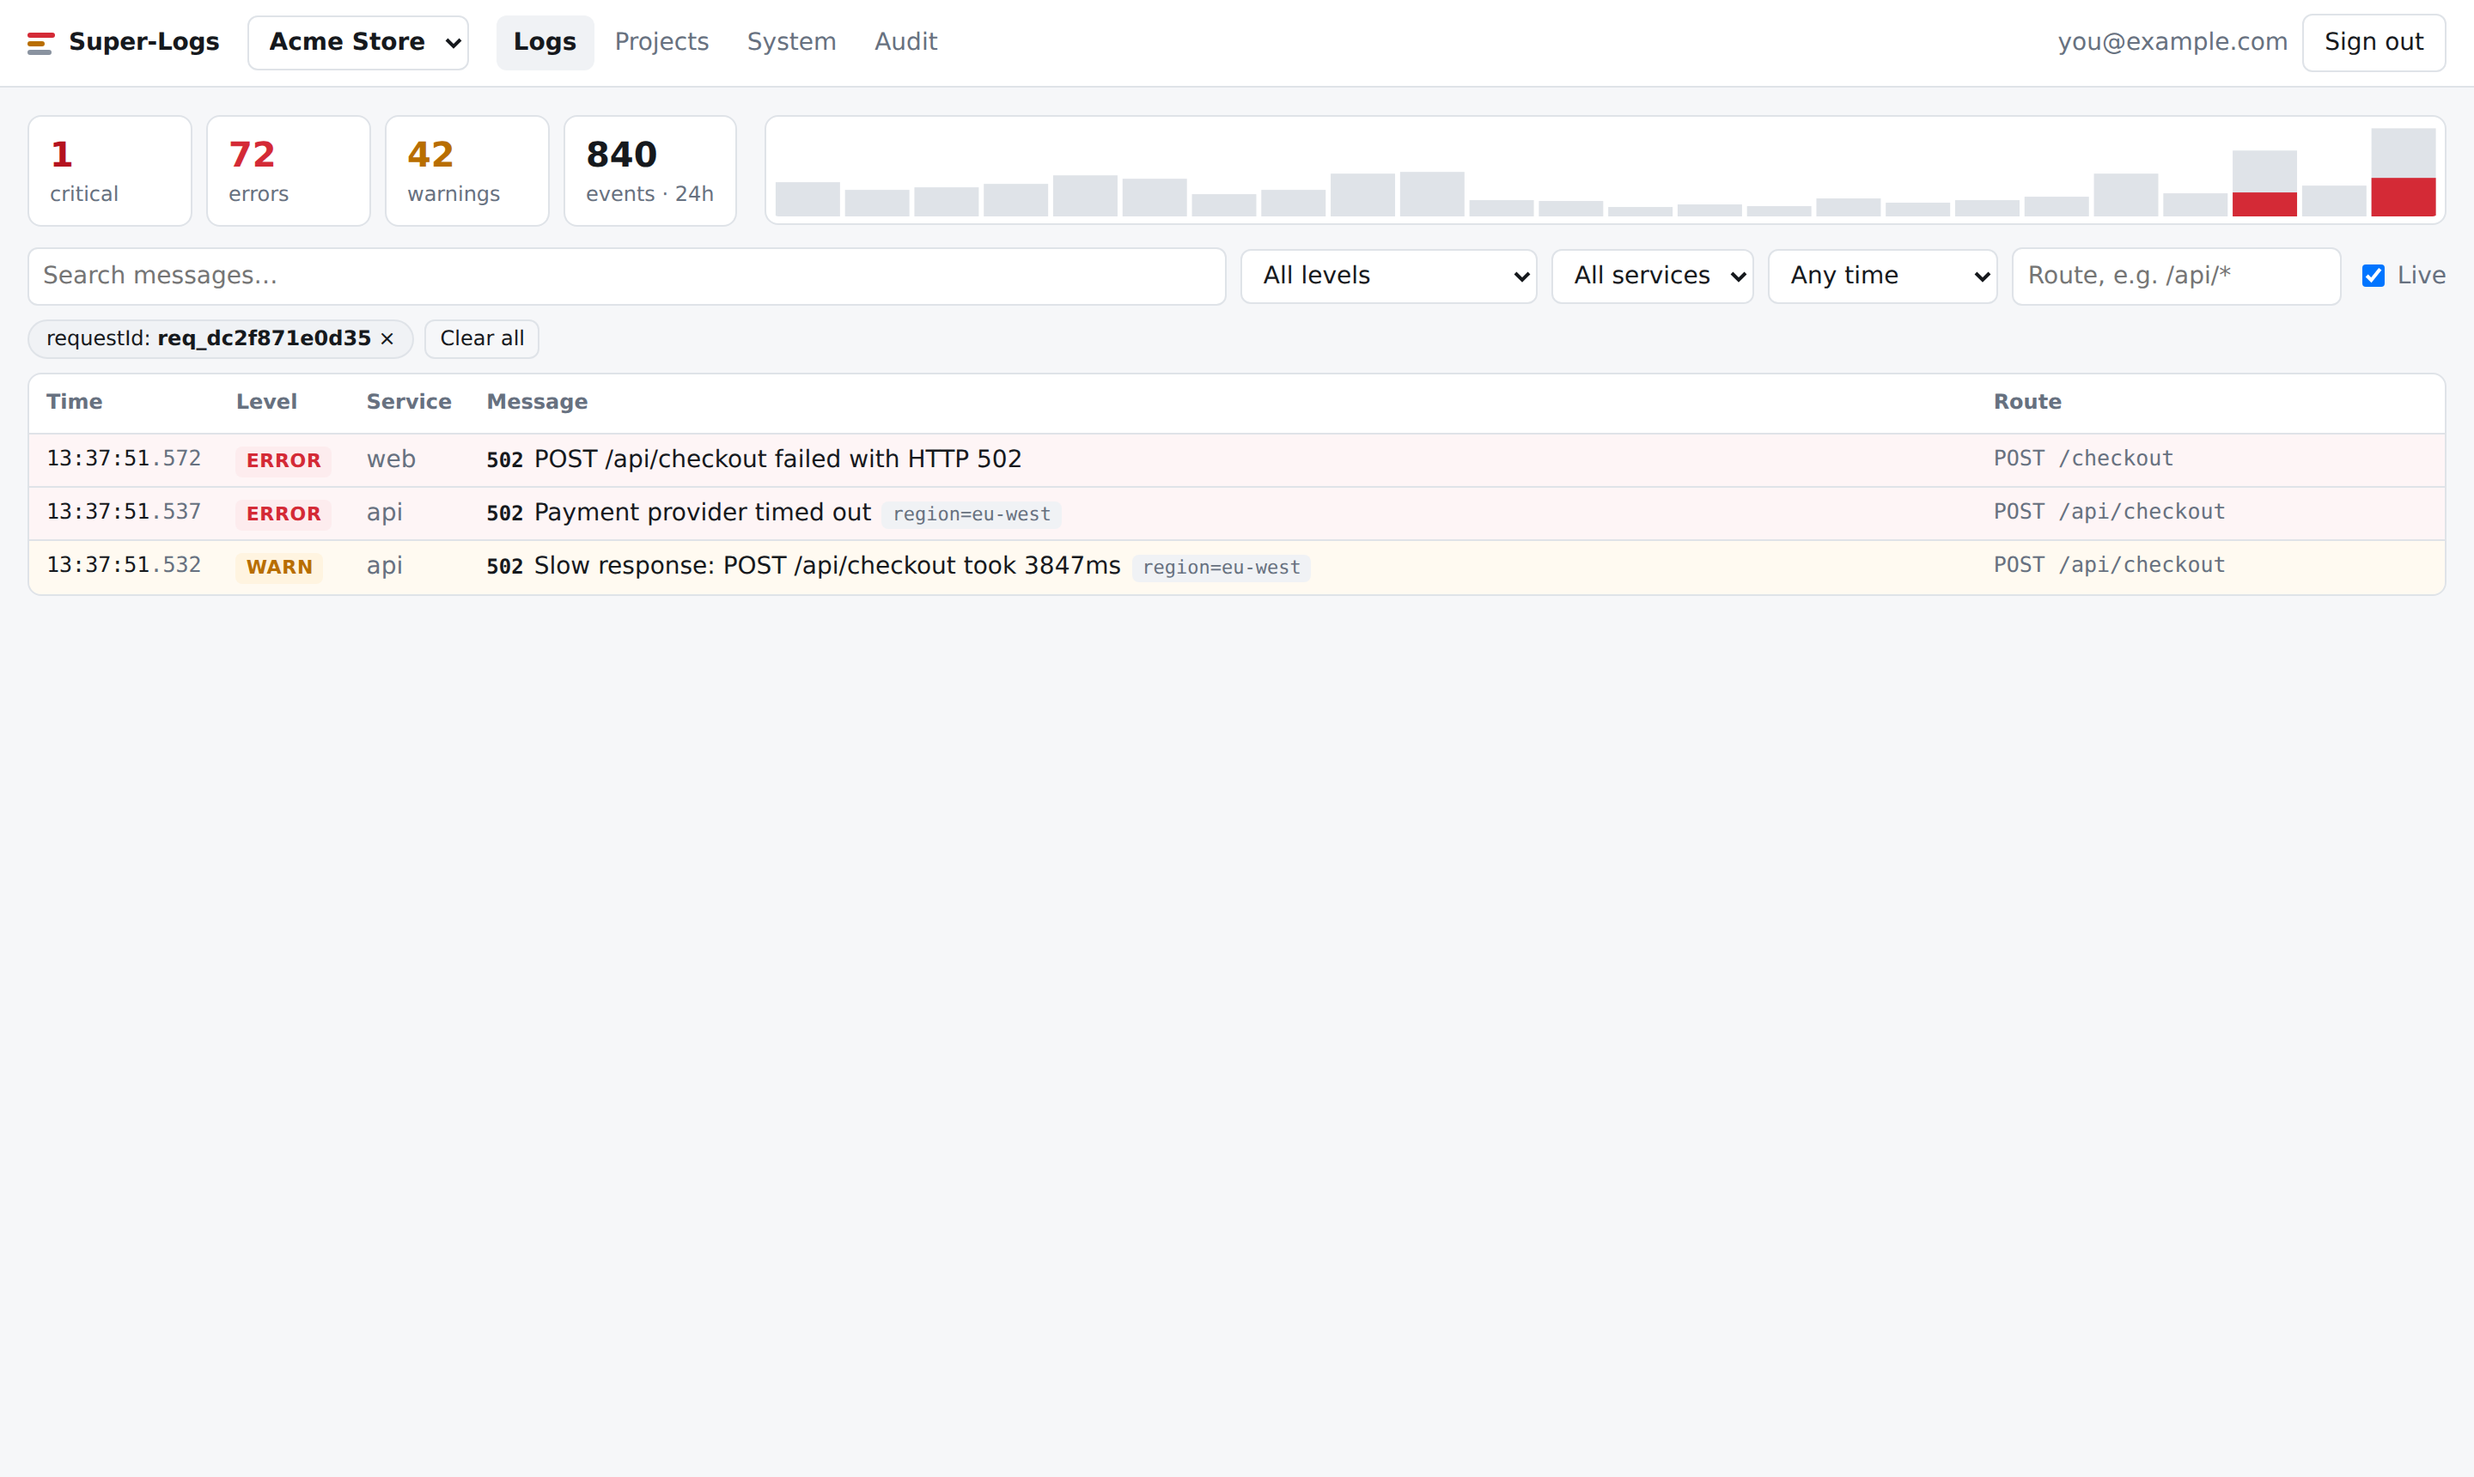
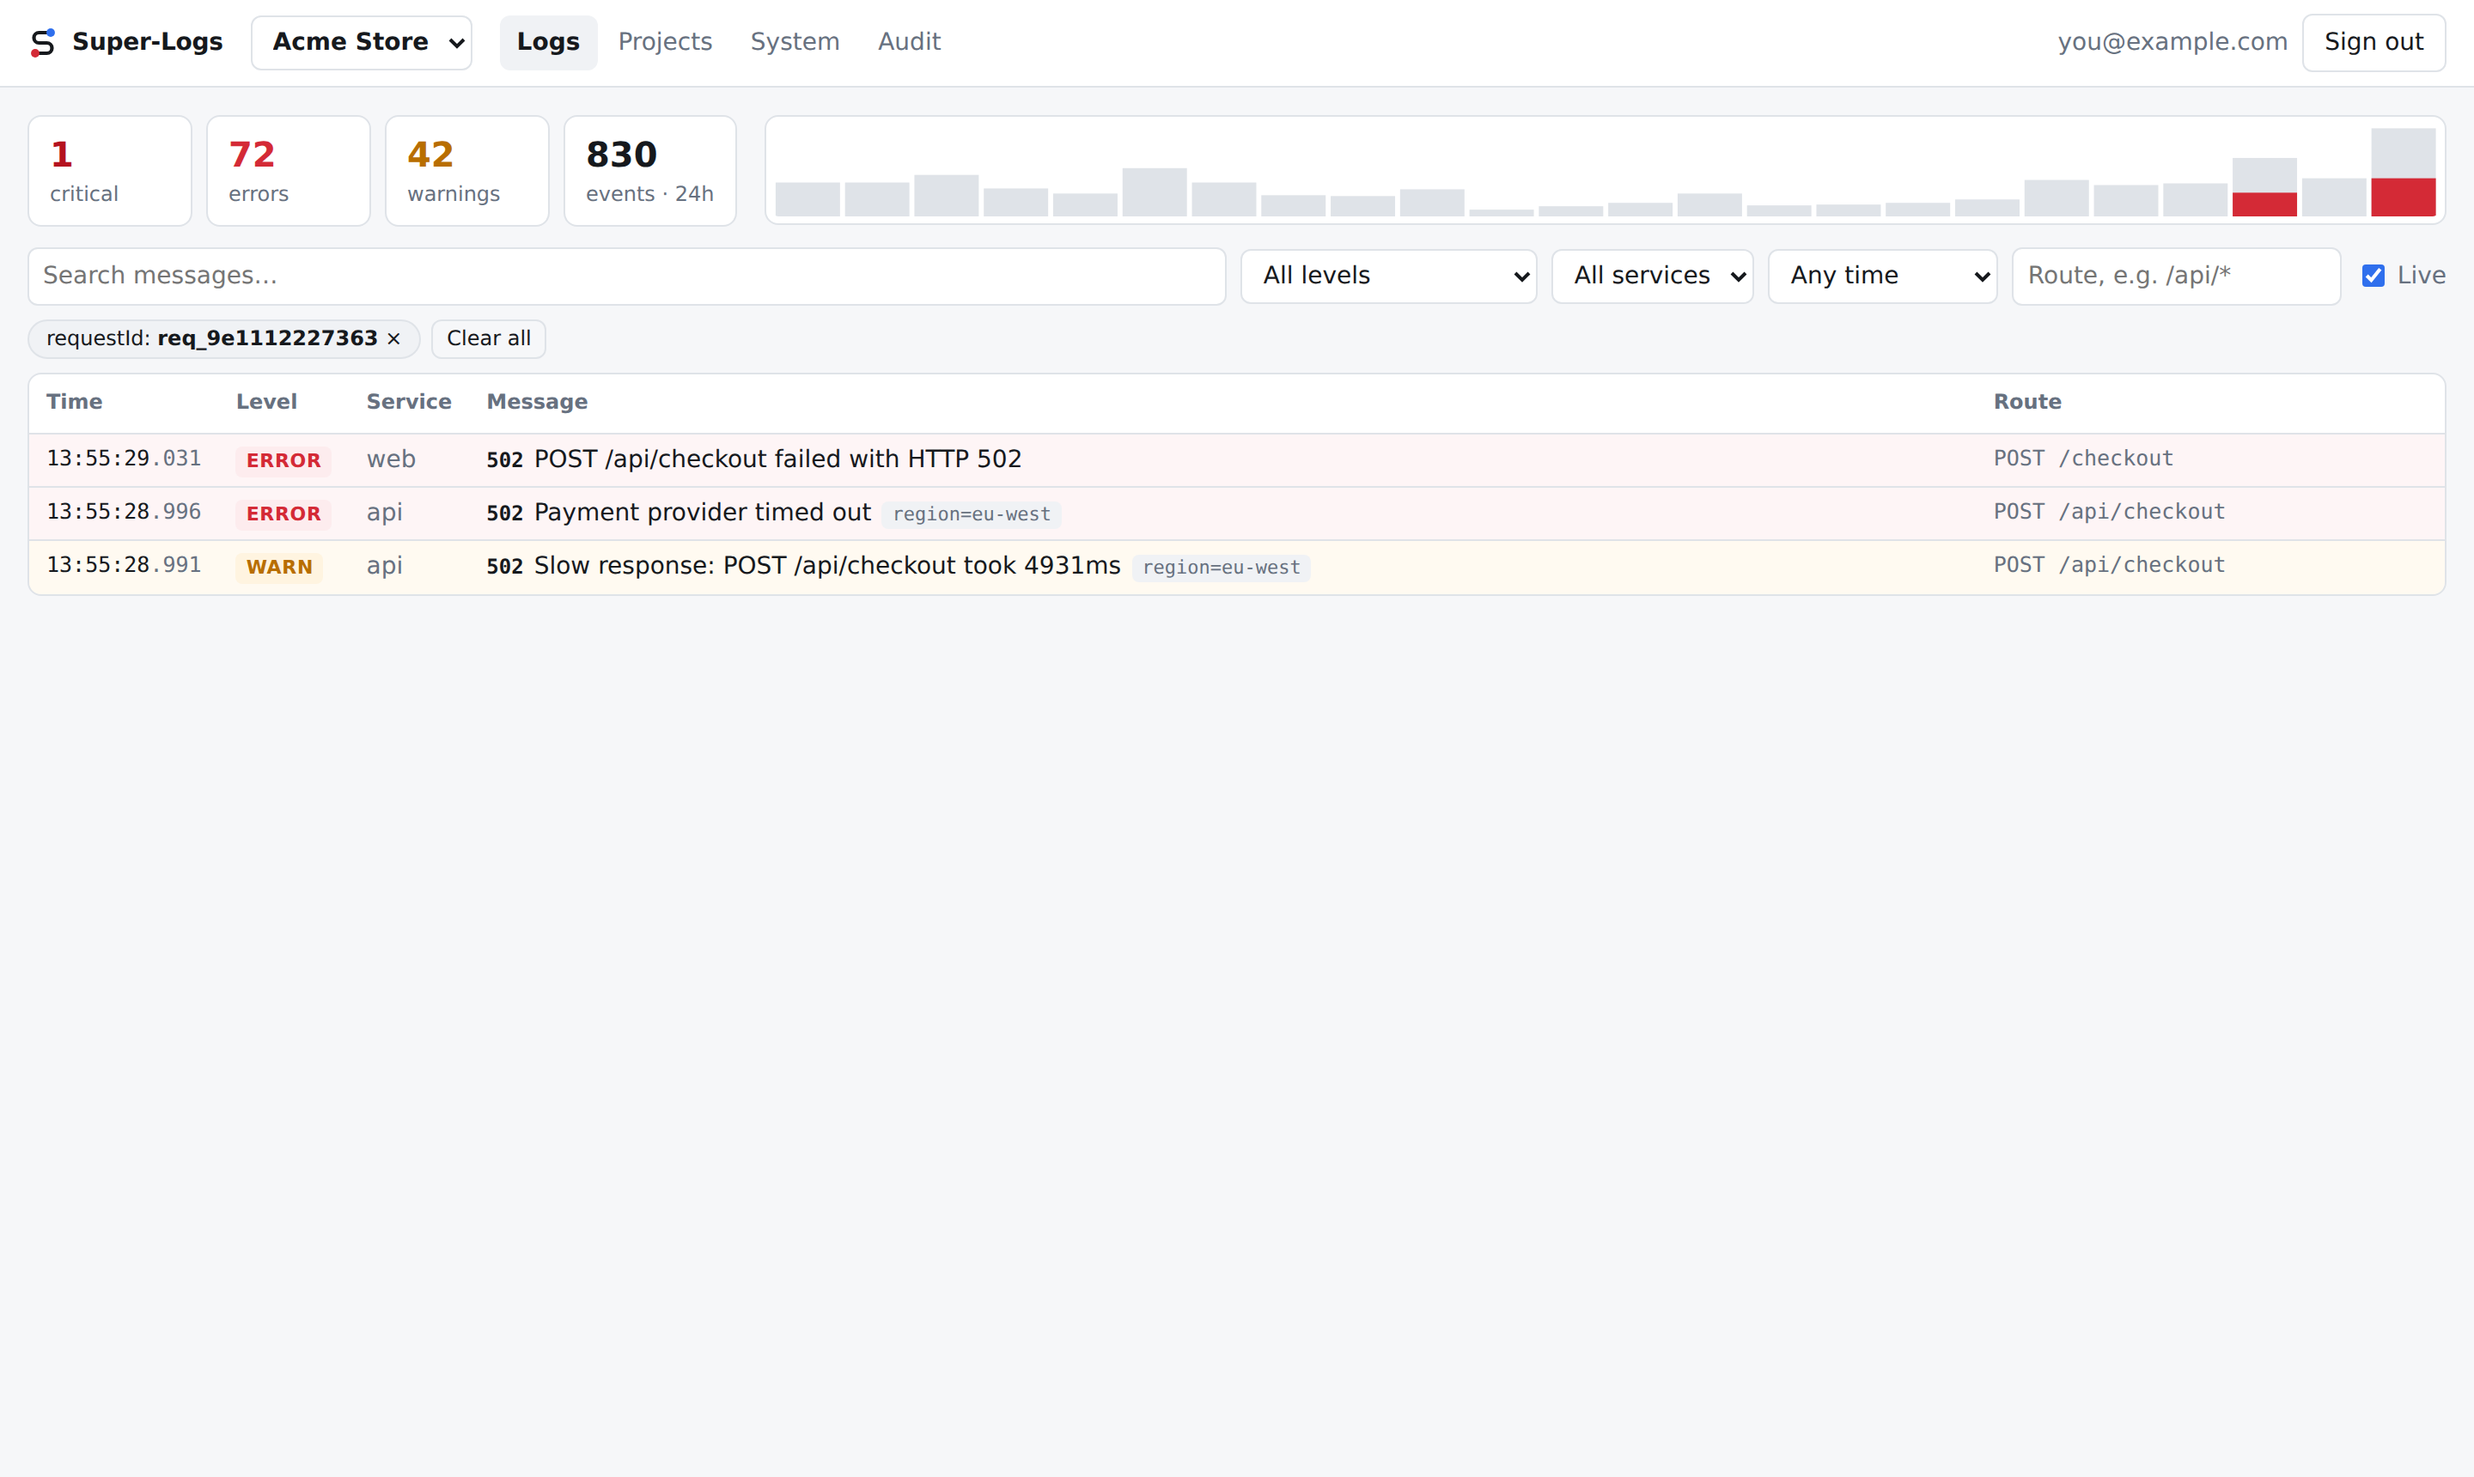
UI refactor

diff --git a/apps/dashboard/src/styles.css b/apps/dashboard/src/styles.css
@@ -147,6 +147,9 @@ select {
   padding: 6px 8px;
   min-width: 0;
 }
+input[type="checkbox"] {
+  accent-color: var(--accent);
+}
 input:focus-visible,
 select:focus-visible,
 button:focus-visible,
@@ -200,29 +203,18 @@ tr:focus-visible {
 }
 .brand.large {
   font-size: 22px;
+  gap: 10px;
   justify-content: center;
   margin-bottom: 8px;
 }
 .brand-mark {
-  display: inline-grid;
-  gap: 2px;
-  width: 16px;
+  flex-shrink: 0;
 }
-.brand-mark i {
-  display: block;
-  height: 3px;
-  border-radius: 2px;
+.brand-mark-start {
+  fill: var(--accent);
 }
-.brand-mark i:nth-child(1) {
-  background: var(--error);
-}
-.brand-mark i:nth-child(2) {
-  background: var(--warning);
-  width: 65%;
-}
-.brand-mark i:nth-child(3) {
-  background: var(--debug);
-  width: 85%;
+.brand-mark-end {
+  fill: var(--error);
 }
 
 .nav {
@@ -757,5 +749,65 @@ table.kv th {
   }
   .account-email {
     display: none;
+  }
+
+  /* Top bar: brand and sign-out on the first row, project and nav on the second. */
+  .topbar {
+    gap: 4px 12px;
+  }
+  .account {
+    order: 1;
+  }
+  .topbar::after {
+    content: "";
+    order: 1;
+    flex-basis: 100%;
+  }
+  .project-picker {
+    order: 2;
+  }
+  .project-picker select {
+    max-width: 150px;
+  }
+  .nav {
+    order: 3;
+    flex: 1 1 0;
+    min-width: 50%;
+    overflow-x: auto;
+  }
+
+  .summary {
+    gap: 8px;
+  }
+  .counters {
+    display: grid;
+    grid-template-columns: repeat(4, minmax(0, 1fr));
+    width: 100%;
+  }
+  .counter {
+    min-width: 0;
+    padding: 6px;
+  }
+  .counter strong {
+    font-size: 18px;
+  }
+  .counter span {
+    font-size: 11px;
+    overflow: hidden;
+    text-overflow: ellipsis;
+    white-space: nowrap;
+  }
+  .histogram {
+    flex-basis: 100%;
+    height: 56px;
+  }
+
+  .filters {
+    display: grid;
+    grid-template-columns: repeat(2, minmax(0, 1fr));
+  }
+  .filters input[type="search"],
+  .filters .toggle {
+    grid-column: 1 / -1;
   }
 }

diff --git a/apps/dashboard/src/components/bits.tsx b/apps/dashboard/src/components/bits.tsx
@@ -3,6 +3,24 @@ import type { Level } from "../api";
 
 export const LEVEL_ORDER: Level[] = ["debug", "info", "warning", "error", "critical"];
 
+/** The Super-Logs mark: an "S" traced from the browser (blue) to the server error (red). */
+export function BrandMark({ size = 18 }: { size?: number }) {
+  return (
+    <svg className="brand-mark" width={size} height={size} viewBox="4 4 24 24" aria-hidden="true">
+      <path
+        d="M22 8H13a4 4 0 0 0 0 8h6a4 4 0 0 1 0 8H10"
+        fill="none"
+        stroke="currentColor"
+        strokeWidth="2.8"
+        strokeLinecap="round"
+        strokeLinejoin="round"
+      />
+      <circle cx="22" cy="8" r="3.3" className="brand-mark-start" />
+      <circle cx="10" cy="24" r="3.3" className="brand-mark-end" />
+    </svg>
+  );
+}
+
 export function LevelBadge({ level }: { level: Level }) {
   return <span className={`level level-${level}`}>{level === "warning" ? "warn" : level === "critical" ? "crit" : level}</span>;
 }

diff --git a/apps/dashboard/src/pages/Login.tsx b/apps/dashboard/src/pages/Login.tsx
@@ -1,6 +1,6 @@
 import { useState } from "react";
 import { api, errorMessage, type User } from "../api";
-import { ErrorNote } from "../components/bits";
+import { BrandMark, ErrorNote } from "../components/bits";
 
 export function LoginPage({ onSignedIn }: { onSignedIn: (user: User) => void }) {
   const [error, setError] = useState<string | null>(null);
@@ -29,11 +29,7 @@ export function LoginPage({ onSignedIn }: { onSignedIn: (user: User) => void }) 
         }}
       >
         <div className="brand large">
-          <span className="brand-mark" aria-hidden="true">
-            <i />
-            <i />
-            <i />
-          </span>
+          <BrandMark size={28} />
           Super-Logs
         </div>
         <label>

diff --git a/apps/dashboard/src/components/Layout.tsx b/apps/dashboard/src/components/Layout.tsx
@@ -1,5 +1,6 @@
 import type { Project, User } from "../api";
 import { Link, navigate } from "../router";
+import { BrandMark } from "./bits";
 
 export function Layout(props: {
   user: User;
@@ -15,11 +16,7 @@ export function Layout(props: {
     <div className="shell">
       <header className="topbar">
         <Link to="/" className="brand">
-          <span className="brand-mark" aria-hidden="true">
-            <i />
-            <i />
-            <i />
-          </span>
+          <BrandMark />
           Super-Logs
         </Link>
 
